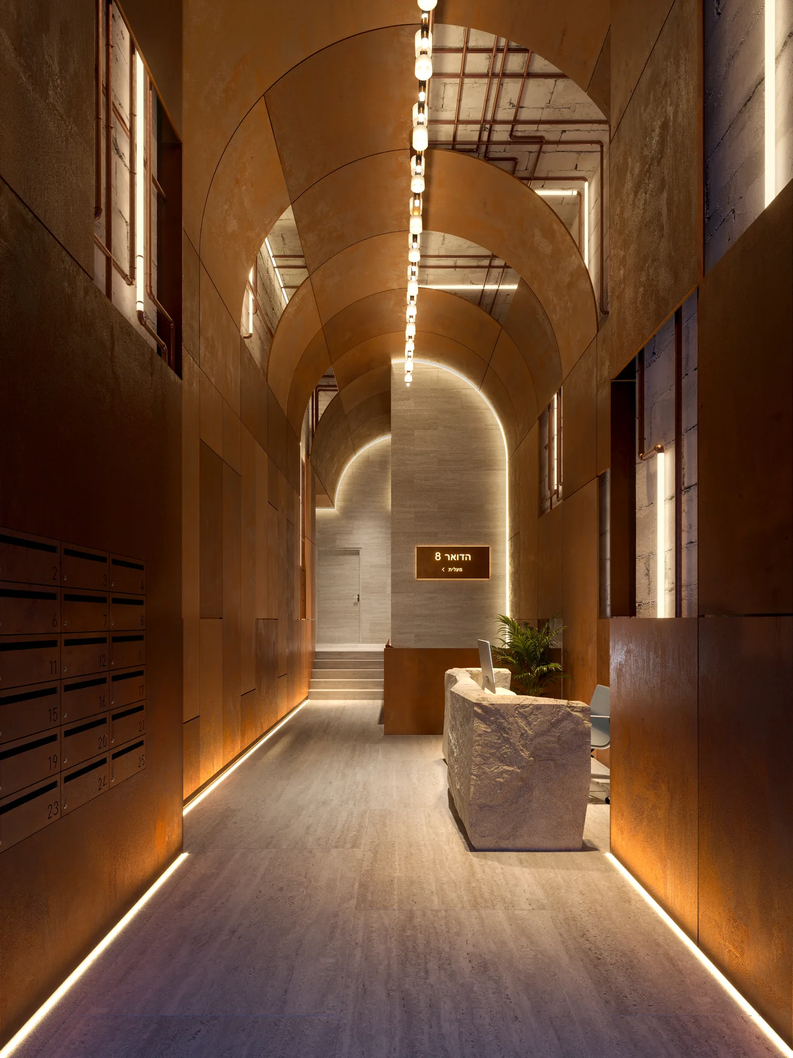
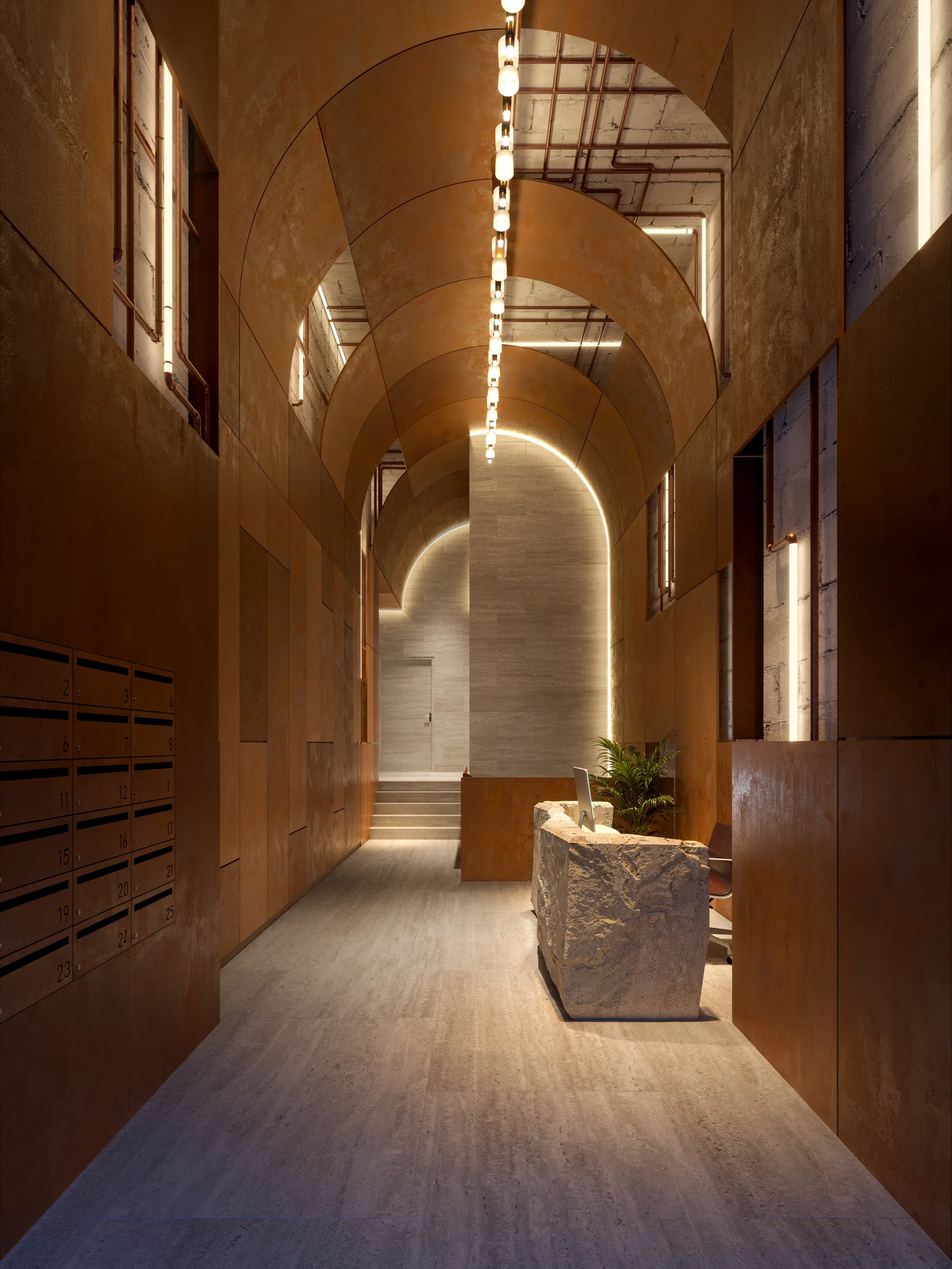
Refresh lobby + interior renders; add lobby stair; split Jaffa quote
- Replace existing lobby.webp with the refreshed entrance render
- Add new lobby2.webp ("lobby stair") as a fullbleed section between
  the lobby split and the residential corridor
- Replace apt interioirs.webp with the refreshed copper-wall living
  view; use it as the left half of the Jaffa quote (new split layout)
- Add new apt interioirs2.webp (stainless kitchen + green sofa) and
  swap it into the LIVING ("Stainless kitchens. Oak everywhere") section
- Cache-bust all refreshed image URLs so browsers fetch the new files

diff --git a/index.html b/index.html
@@ -177,6 +177,15 @@ h1,h2,h3{font-family:var(--serif);font-weight:300;letter-spacing:-.005em;line-he
 .quote-section.dark .bigquote em{color:#cee0e6}
 .quote-section.dark .bigquote .qmark{color:#cee0e6;opacity:.6}
 .quote-section.dark .quote-attr{color:rgba(255,255,255,.55)}
+/* Jaffa split — image left, quote right */
+.quote-section.jaffa-split{padding:0;overflow:hidden}
+.jaffa-grid{display:grid;grid-template-columns:1fr 1fr;align-items:stretch;min-height:560px}
+.jaffa-img{position:relative;overflow:hidden;background:#1a1814;min-height:560px}
+.jaffa-img img{width:100%;height:100%;object-fit:cover;object-position:center;display:block;transform:scale(1.04);transition:transform 14s ease-out}
+.jaffa-img.in img{transform:scale(1)}
+.jaffa-text{padding:90px 70px;display:flex;flex-direction:column;justify-content:center;gap:24px}
+.quote-section.jaffa-split .bigquote{max-width:38ch;margin:0}
+@media(max-width:900px){.jaffa-grid{grid-template-columns:1fr}.jaffa-img{min-height:auto;aspect-ratio:3/2}.jaffa-text{padding:60px 28px}}
 .quote-section.copper{background-color:#3a3a35;background-image:linear-gradient(180deg,rgba(15,15,12,.55) 0%,rgba(15,15,12,.35) 50%,rgba(15,15,12,.65) 100%),url('assets/renders/ox-copper.jpg');background-size:cover;background-position:center;color:#fff;margin:28px 0}
 .quote-section.copper .wrap{position:relative;z-index:2}
 .quote-section.copper .bigquote{color:#f4ecdf}
@@ -459,7 +468,16 @@ footer{background:var(--ink);color:var(--paper);padding:60px 44px 36px;border-to
     <h2 class="fbs-ttl fade" data-d="1">Through the arches,<br/>into a <em>quiet</em> city.</h2>
     <div class="fbs-meta fade" data-d="2">Patinated copper · Travertine<br/>Brass detailing throughout</div>
   </div>
-  <div class="fbs-img"><img src="assets/renders/lobby.webp" alt="Hadoar 8 lobby — patinated copper and travertine" loading="lazy" /></div>
+  <div class="fbs-img"><img src="assets/renders/lobby.webp?v=20260601" alt="Hadoar 8 lobby — patinated copper and travertine" loading="lazy" /></div>
+</section>
+
+<!-- LOBBY STAIR (full bleed) -->
+<section class="fullbleed">
+  <div class="fullbleed-img" style="background-image:url('assets/renders/lobby2.webp');background-position:center"></div>
+  <div class="fullbleed-cap">
+    <div class="ttl fade">Out to the<br/><em>boulevard</em>.</div>
+    <div class="meta fade" data-d="2">Lobby stair · Cor-Ten<br/>Travertine throughout</div>
+  </div>
 </section>
 
 <!-- CORRIDOR (full bleed) -->
@@ -474,7 +492,7 @@ footer{background:var(--ink);color:var(--paper);padding:60px 44px 36px;border-to
 <!-- LIVING -->
 <section id="interiors">
   <div class="split reverse">
-    <div class="split-img fade"><img src="assets/renders/apt%20interioirs.webp" alt="Living and dining" loading="lazy" /></div>
+    <div class="split-img fade"><img src="assets/renders/apt%20interioirs2.webp?v=20260601" alt="Living and dining — stainless kitchen, oak floor" loading="lazy" /></div>
     <div class="split-text">
       <div class="eyebrow fade"><span class="bar"></span><span class="label">The Living Room</span></div>
       <h2 class="fade" data-d="1">Stainless kitchens.<br/>Oak <em>everywhere</em>.</h2>
@@ -490,13 +508,16 @@ footer{background:var(--ink);color:var(--paper);padding:60px 44px 36px;border-to
 </section>
 
 <!-- ELDAD QUOTE / DESIGN PHILOSOPHY -->
-<section class="quote-section long dark">
-  <div class="wrap">
-    <blockquote class="bigquote fade">
-      <span class="qmark">“</span>
-      Jaffa is a city you experience through <em>passages</em> — not as one open plane, but as a sequence of alleys, arches and thresholds. You move from ancient stone to contemporary life in a few steps. The city is built in <em>layers</em>: histories, faiths and architectural language laid one upon another, raw and refined. And at its core, Jaffa is a city of <em>connection</em> — once one of the world's oldest port cities, always a meeting point.
-    </blockquote>
-    <div class="quote-attr fade" data-d="1">— Yaron Eldad · Interior Designer</div>
+<section class="quote-section long dark jaffa-split">
+  <div class="jaffa-grid">
+    <div class="jaffa-img fade"><img src="assets/renders/apt%20interioirs.webp?v=20260601" alt="Interior — by Yaron Eldad" loading="lazy" /></div>
+    <div class="jaffa-text">
+      <blockquote class="bigquote fade">
+        <span class="qmark">“</span>
+        Jaffa is a city you experience through <em>passages</em> — not as one open plane, but as a sequence of alleys, arches and thresholds. You move from ancient stone to contemporary life in a few steps. The city is built in <em>layers</em>: histories, faiths and architectural language laid one upon another, raw and refined. And at its core, Jaffa is a city of <em>connection</em> — once one of the world's oldest port cities, always a meeting point.
+      </blockquote>
+      <div class="quote-attr fade" data-d="1">— Yaron Eldad · Interior Designer</div>
+    </div>
   </div>
 </section>
 
